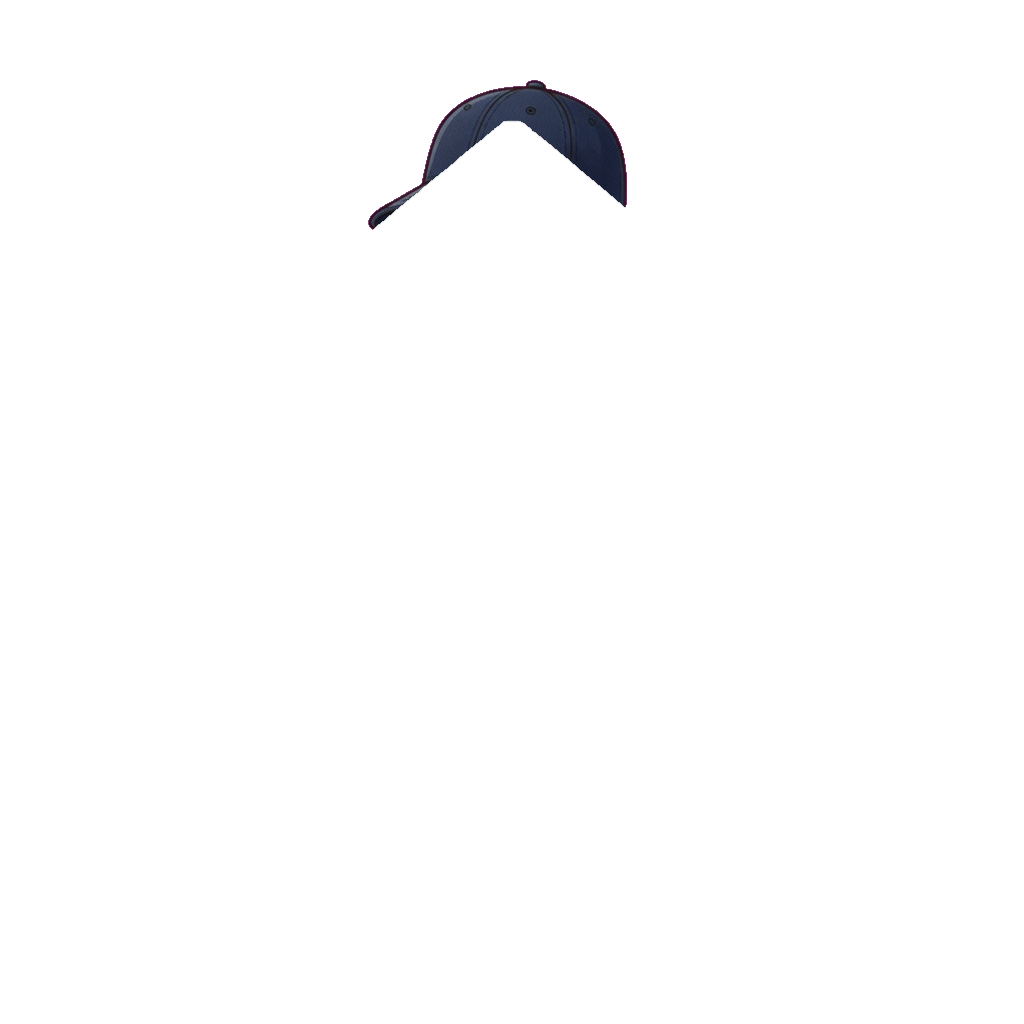
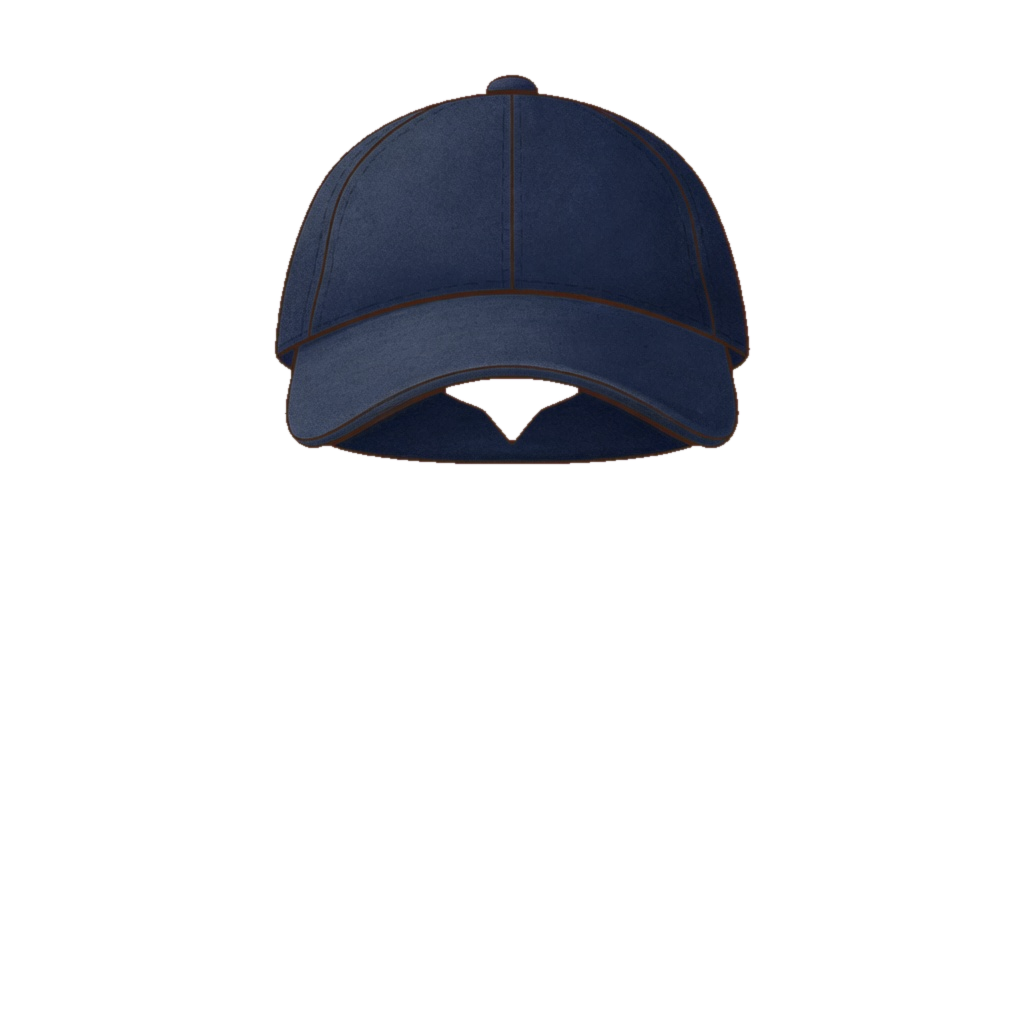
headwear fit loop: sit every hat on class heads

Changed region(s): [[0.25, 0.0625, 0.75, 0.4688]]

diff --git a/tests/test_pipeline.py b/tests/test_pipeline.py
@@ -373,29 +373,32 @@ class CompositorStackTests(unittest.TestCase):
     def test_headwear_clamp_shrinks_oversized_hat(self):
         from PIL import Image, ImageDraw
 
-        from warm_company.composite import CANVAS
+        from warm_company.composite import CANVAS, register_headwear
 
         im = Image.new("RGBA", CANVAS, (0, 0, 0, 0))
         draw = ImageDraw.Draw(im)
         draw.ellipse([200, 40, 824, 400], fill=(180, 80, 60, 255))
-        out = clamp_headwear(im, "sleeping-bag")
+        out = register_headwear(im, "sleeping-bag", "beanie")
         box = out.getchannel("A").getbbox()
         self.assertIsNotNone(box)
         legal = config.class_spec("sleeping-bag")["headwear_zone"]
         self.assertLessEqual(box[2] - box[0], legal["w"] + 2)
-        self.assertGreater(box[2] - box[0], config.class_spec("sleeping-bag")["headwear_preferred"]["w"])
+        cx = (box[0] + box[2]) / 2
+        self.assertAlmostEqual(cx, 512, delta=16)
 
-    def test_clamp_headwear_does_not_upscale_small_hats(self):
+    def test_register_headwear_upsizes_tiny_caps(self):
         from PIL import Image, ImageDraw
 
-        from warm_company.composite import CANVAS
+        from warm_company.composite import CANVAS, register_headwear
 
         im = Image.new("RGBA", CANVAS, (0, 0, 0, 0))
         ImageDraw.Draw(im).ellipse([470, 90, 554, 150], fill=(180, 80, 60, 255))
-        out = clamp_headwear(im, "sleeping-bag")
-        before = im.getchannel("A").getbbox()
+        out = register_headwear(im, "sleeping-bag", "baseball-cap")
         after = out.getchannel("A").getbbox()
-        self.assertEqual(before, after)
+        self.assertIsNotNone(after)
+        self.assertGreater(after[2] - after[0], 84)
+        brim = config.class_spec("sleeping-bag")["headwear_brim_y"]
+        self.assertLess(abs(after[3] - brim), 50)
 
     def test_blank_cream_face_panel_is_skipped(self):
         from PIL import Image, ImageDraw
@@ -814,9 +817,11 @@ class ReviewStripTests(unittest.TestCase):
         box = im.getchannel("A").getbbox()
         self.assertIsNotNone(box)
         pref = config.class_spec("sleeping-bag")["headwear_preferred"]["w"]
-        clamped = clamp_headwear(im, "sleeping-bag")
+        legal = config.class_spec("sleeping-bag")["headwear_zone"]["w"]
+        clamped = clamp_headwear(im, "sleeping-bag", "beanie")
         cbox = clamped.getchannel("A").getbbox()
-        self.assertLessEqual(cbox[2] - cbox[0], pref + 12)
+        self.assertLessEqual(cbox[2] - cbox[0], legal + 12)
+        self.assertGreater(cbox[2] - cbox[0], pref * 0.45)
 
     def test_composite_report_lists_painted_and_skipped_face(self):
         from warm_company.composite import composite_with_report
@@ -1307,7 +1312,7 @@ class InventoryLibraryTests(unittest.TestCase):
 
         path = ROOT / "layers" / "large-tent" / "headwear" / "trapper-hat.png"
         im = Image.open(path).convert("RGBA")
-        out = clamp_headwear(im, "large-tent")
+        out = clamp_headwear(im, "large-tent", "trapper-hat")
         box = out.getchannel("A").getbbox()
         self.assertIsNotNone(box)
         pref = config.class_spec("large-tent")["headwear_preferred"]
@@ -1320,11 +1325,45 @@ class InventoryLibraryTests(unittest.TestCase):
 
         path = ROOT / "layers" / "large-tent" / "headwear" / "baseball-cap.png"
         im = Image.open(path).convert("RGBA")
+        out = clamp_headwear(im, "large-tent", "baseball-cap")
+        after = out.getchannel("A").getbbox()
+        legal = config.class_spec("large-tent")["headwear_zone"]
+        self.assertIsNotNone(after)
+        self.assertLessEqual(after[2] - after[0], legal["w"] + 12)
+        self.assertGreater(after[2] - after[0], 140)
+        self.assertAlmostEqual((after[0] + after[2]) / 2, 512, delta=20)
+
+    def test_snug_knit_keeps_artist_registration(self):
+        from warm_company.composite import register_headwear
+
+        path = ROOT / "layers" / "sleeping-bag" / "headwear" / "knit-cap.png"
+        im = Image.open(path).convert("RGBA")
         before = im.getchannel("A").getbbox()
-        out = clamp_headwear(im, "large-tent")
+        out = register_headwear(im, "sleeping-bag", "knit-cap")
         after = out.getchannel("A").getbbox()
         self.assertEqual(before, after)
-        self.assertGreater(after[2] - after[0], 180)
+
+    def test_snug_baseball_has_crown_height(self):
+        from warm_company.composite import register_headwear
+
+        path = ROOT / "layers" / "sleeping-bag" / "headwear" / "baseball-cap.png"
+        im = Image.open(path).convert("RGBA")
+        out = register_headwear(im, "sleeping-bag", "baseball-cap")
+        box = out.getchannel("A").getbbox()
+        self.assertIsNotNone(box)
+        self.assertGreater(box[3] - box[1], 100)
+        self.assertGreater(box[2] - box[0], 140)
+
+    def test_snug_earflap_is_visible_on_hood(self):
+        from warm_company.composite import register_headwear
+
+        path = ROOT / "layers" / "sleeping-bag" / "headwear" / "earflap-beanie.png"
+        im = Image.open(path).convert("RGBA")
+        out = register_headwear(im, "sleeping-bag", "earflap-beanie")
+        box = out.getchannel("A").getbbox()
+        self.assertIsNotNone(box)
+        self.assertGreater(box[3] - box[1], 160)
+        self.assertGreater(box[2] - box[0], 160)
 
     def test_review_inventory_sheets_exist(self):
         review = ROOT / "build" / "review-inventory"

diff --git a/src/warm_company/composite.py b/src/warm_company/composite.py
@@ -1,7 +1,7 @@
 """Painter's algorithm compositor driven by config/layer_stack.json.
 
 Limb roots load behind the body. Footwear and rear legs register to class
-anatomy. Headwear that exceeds the legal zone is scaled down.
+anatomy. Headwear registers to class peak/brim via register_headwear.
 Atmosphere punches the face/door. Lantern may emit a procedural warm glow
 when an illustrated light layer is absent.
 """
@@ -127,28 +127,84 @@ def punch_face(im: Image.Image, class_id: str) -> Image.Image:
     return out
 
 
-def clamp_headwear(im: Image.Image, class_id: str) -> Image.Image:
-    """Shrink hats that exceed the legal zone. Do not crush legal hats to beanie size."""
+def headwear_fit_spec(trait_id: str | None, class_id: str | None = None) -> dict:
+    table = config.anchors().get("headwear_fit") or {}
+    merged = dict(table.get("default") or {"w_mul": 1.0, "h_mul": 1.15, "contact": 0.88, "fit": "contain"})
+    if trait_id and trait_id in table:
+        merged.update(table[trait_id])
+    if class_id:
+        class_table = (table.get("by_class") or {}).get(class_id) or {}
+        if trait_id and trait_id in class_table:
+            merged.update(class_table[trait_id])
+    return merged
+
+
+def register_headwear(im: Image.Image, class_id: str, trait_id: str | None = None) -> Image.Image:
+    """Sit a hat on the class head.
+
+    Hats already drawn in the legal zone at a reasonable size keep their
+    canvas placement. Undersized hats upscale toward preferred * multipliers
+    and sit on brim_y. Oversized hats shrink into the legal zone (plus hang
+    for earflaps) and recentre on the peak X.
+    """
     spec = config.class_spec(class_id)
+    pref = spec["headwear_preferred"]
     legal = spec["headwear_zone"]
-    alpha = im.getchannel("A")
-    box = alpha.getbbox()
+    peak = spec["peak"]
+    brim_y = int(spec["headwear_brim_y"])
+    cx = int(spec["character_center_x"])
+    fit = headwear_fit_spec(trait_id, class_id)
+    box = im.getchannel("A").getbbox()
     if not box:
         return im
     w, h = box[2] - box[0], box[3] - box[1]
-    max_w = legal["w"]
-    max_h = legal["h"] + 24
-    if w <= max_w + 12 and h <= max_h + 12:
+    src_cx = (box[0] + box[2]) / 2.0
+    hang = int(fit.get("hang", 24))
+    max_w = int(legal["w"])
+    max_h = int(legal["h"]) + hang
+    target_w = min(max(48, int(pref["w"] * float(fit.get("w_mul", 1.0)))), max_w)
+    target_h = min(max(36, int(pref["h"] * float(fit.get("h_mul", 1.15)))), max_h)
+    mode = str(fit.get("fit") or "contain")
+    contact = fit.get("contact", 0.88)
+
+    oversized = w > max_w + 12 or h > max_h + 12
+    undersized = w < target_w * 0.72 or h < target_h * 0.58
+    off_center = abs(src_cx - cx) > 28
+    too_high = box[3] < brim_y - 28
+    too_low = box[1] > int(peak["y"]) + 48
+    force = mode == "force" or contact == "float"
+
+    if not force and not oversized and not undersized and not off_center and not too_high and not too_low:
         return im
+
     crop = im.crop(box)
-    scale = min(max_w / w, max_h / h)
-    nw, nh = max(1, int(w * scale)), max(1, int(h * scale))
-    crop = crop.resize((nw, nh), Image.Resampling.LANCZOS)
+    if oversized:
+        scale = min(max_w / max(w, 1), max_h / max(h, 1))
+    elif undersized and mode == "cover_height":
+        scale = target_h / max(h, 1)
+        if w * scale > max_w:
+            scale = max_w / max(w, 1)
+    elif undersized:
+        scale = min(target_w / max(w, 1), target_h / max(h, 1))
+        if w * scale > max_w:
+            scale = max_w / max(w, 1)
+    else:
+        scale = 1.0
+    nw, nh = max(1, int(round(w * scale))), max(1, int(round(h * scale)))
+    if (nw, nh) != crop.size:
+        crop = crop.resize((nw, nh), Image.Resampling.LANCZOS)
     canvas = empty()
-    cx = (box[0] + box[2]) / 2
-    cy = (box[1] + box[3]) / 2
-    canvas.paste(crop, (int(cx - nw / 2), int(cy - nh / 2)), crop)
+    if contact == "float":
+        paste_y = int(peak["y"] - nh * 0.55)
+    else:
+        paste_y = int(brim_y - nh * float(contact))
+    canvas.paste(crop, (cx - nw // 2, paste_y), crop)
     return canvas
+
+
+def clamp_headwear(im: Image.Image, class_id: str, trait_id: str | None = None) -> Image.Image:
+    """Back-compat alias: register hats to class anatomy."""
+    return register_headwear(im, class_id, trait_id)
 
 
 def split_left_right(im: Image.Image) -> tuple[Image.Image, Image.Image]:
@@ -542,7 +598,7 @@ def _prepare_layer(
     if slot == "footwear":
         image = place_pair_at_feet(image, class_id, kind="boot")
     if slot == "headwear":
-        image = clamp_headwear(image, class_id)
+        image = register_headwear(image, class_id, traits.get("headwear"))
     if pose_master and body_rgb:
         from .library import recolor_fabric
 

diff --git a/scripts/render_headwear_loop.py b/scripts/render_headwear_loop.py
@@ -1,0 +1,76 @@
+"""Render every production hat on its class body for the headwear-fit loop."""
+
+from __future__ import annotations
+
+import sys
+from pathlib import Path
+
+from PIL import Image, ImageDraw, ImageFont
+
+ROOT = Path(__file__).resolve().parents[1]
+sys.path.insert(0, str(ROOT / "src"))
+
+from warm_company import config  # noqa: E402
+from warm_company.composite import composite_token  # noqa: E402
+from warm_company.review import review_token  # noqa: E402
+
+OUT = ROOT / "build" / "headwear-loop"
+
+HATS = [
+    ("sleeping-bag", "Snug", "baseball-cap"),
+    ("sleeping-bag", "Snug", "beanie"),
+    ("sleeping-bag", "Snug", "earflap-beanie"),
+    ("sleeping-bag", "Snug", "knit-cap"),
+    ("sleeping-bag", "Snug", "santa-hat"),
+    ("small-tent", "Pup", "beanie"),
+    ("small-tent", "Pup", "bucket-hat"),
+    ("small-tent", "Pup", "knit-cap"),
+    ("large-tent", "Lodge", "baseball-cap"),
+    ("large-tent", "Lodge", "beanie"),
+    ("large-tent", "Lodge", "crown"),
+    ("large-tent", "Lodge", "halo"),
+    ("large-tent", "Lodge", "trapper-hat"),
+]
+
+
+def font(size: int):
+    for name in ("segoeui.ttf", "SegoeUI.ttf", "arial.ttf"):
+        try:
+            return ImageFont.truetype(rf"C:\Windows\Fonts\{name}", size)
+        except OSError:
+            continue
+    return ImageFont.load_default()
+
+
+def sheet(title: str, cells: list[tuple[str, Image.Image]], cols: int = 4, size: int = 240) -> Image.Image:
+    rows = max(1, (len(cells) + cols - 1) // cols)
+    img = Image.new("RGB", (24 + cols * (size + 10), 52 + rows * (size + 28)), (16, 20, 28))
+    d = ImageDraw.Draw(img)
+    d.text((12, 10), title, fill=(240, 236, 228), font=font(18))
+    for i, (label, im) in enumerate(cells):
+        r, c = divmod(i, cols)
+        x, y = 12 + c * (size + 10), 44 + r * (size + 28)
+        vis = im.convert("RGB").resize((size, size), Image.Resampling.LANCZOS)
+        img.paste(vis, (x, y))
+        d.text((x, y + size + 2), label[:28], fill=(200, 206, 212), font=font(11))
+    return img
+
+
+def main() -> None:
+    tag = sys.argv[1] if len(sys.argv) > 1 else "current"
+    OUT.mkdir(parents=True, exist_ok=True)
+    cells: list[tuple[str, Image.Image]] = []
+    for class_id, label, hat in HATS:
+        tok = review_token(class_id, headwear=hat)
+        im = composite_token(tok, missing="allow")
+        stem = f"{label.lower()}-{hat}"
+        im.save(OUT / f"{stem}.png")
+        cells.append((f"{label} {hat}", im))
+        print(f"{stem} rendered")
+    title = f"Headwear {tag}"
+    sheet(title, cells).save(OUT / f"{tag}-sheet.png")
+    print(f"wrote {OUT / f'{tag}-sheet.png'}")
+
+
+if __name__ == "__main__":
+    main()

diff --git a/scripts/ingest_hat.py b/scripts/ingest_hat.py
@@ -1,0 +1,36 @@
+"""Chroma-key an Imagine hat onto a 1024 RGBA layer PNG."""
+
+from __future__ import annotations
+
+import sys
+from pathlib import Path
+
+from PIL import Image, ImageFilter
+
+ROOT = Path(__file__).resolve().parents[1]
+sys.path.insert(0, str(ROOT / "src"))
+
+from warm_company.matte import chroma_key, fringe_report, strip_key_fringe  # noqa: E402
+
+
+def ingest(src: Path, dest: Path) -> None:
+    im = chroma_key(Image.open(src), threshold=80)
+    im = strip_key_fringe(im)
+    alpha = im.getchannel("A").filter(ImageFilter.MinFilter(5)).filter(ImageFilter.GaussianBlur(0.6))
+    im.putalpha(alpha)
+    dest = dest.resolve()
+    dest.parent.mkdir(parents=True, exist_ok=True)
+    im.save(dest)
+    box = alpha.getbbox()
+    rep = fringe_report(im)
+    w = box[2] - box[0] if box else 0
+    h = box[3] - box[1] if box else 0
+    try:
+        rel = dest.relative_to(ROOT)
+    except ValueError:
+        rel = dest
+    print(f"{rel} bbox={box} {w}x{h} fringe={rep}")
+
+
+if __name__ == "__main__":
+    ingest(Path(sys.argv[1]), Path(sys.argv[2]))

diff --git a/docs/iteration-log.md b/docs/iteration-log.md
@@ -611,3 +611,22 @@ Each entry is chosen from the then-current project. Not a predetermined roadmap.
 - Rejected/reworked: 4 (iter 10 Pup/Lodge arms 111/113; iter 13 Lodge eyes 116; iter 39 mismatched reconstruction strips; iter 44 Lodge arm isolation 113)
 
 The after-50 gate (full tests, validate-layers, generate --phase 9, validate-collection, review artifacts, one commit) is not an iteration.
+
+---
+
+## Headwear fit loop (10 iterations)
+
+Goal: every production hat sits naturally on its class head (Snug hood wrap, Pup/Lodge peak perch). Sheets in `build/headwear-loop/` (gitignored).
+
+1. **register_headwear** — crop/scale every hat to preferred size. Restored santa visibility; crushed Snug knit wrap.
+2. **Hybrid compositor** — keep artist placement when the hat is already legal and reasonably sized; upscale pancakes; clamp oversized; class `headwear_fit` table. Snug knit wrap restored.
+3. **Snug baseball-cap** redraw — front-facing navy cap with a real crown (was a 72px side sliver).
+4. **Snug santa-hat** redraw — red cone, white fur brim, pom (was a smear).
+5. **Snug earflap-beanie** redraw — navy crown + cream flaps (was brown-on-orange, nearly invisible).
+6. **Lodge baseball-cap** redraw — front-facing cap on the peak (was a 3/4 brim stuck to the left).
+7. **Lodge trapper-hat** redraw — fur trapper with earflaps hugging the ridge (was a tiny peak sticker).
+8. **Pup bucket-hat** redraw — complete olive bucket on the peak (was a split brim with a hole).
+9. **Contact polish** — lower Snug baseball/santa, Pup bucket, Lodge baseball; more hang for trapper/earflap.
+10. **Verify** — 114 tests; review-v3 hat samples regenerated; knit-cap still keeps artist registration.
+
+Remaining: Snug baseball is slightly cleaner/vector than the knit; Lodge baseball V-notch still shows a sliver of peak under the brim.
